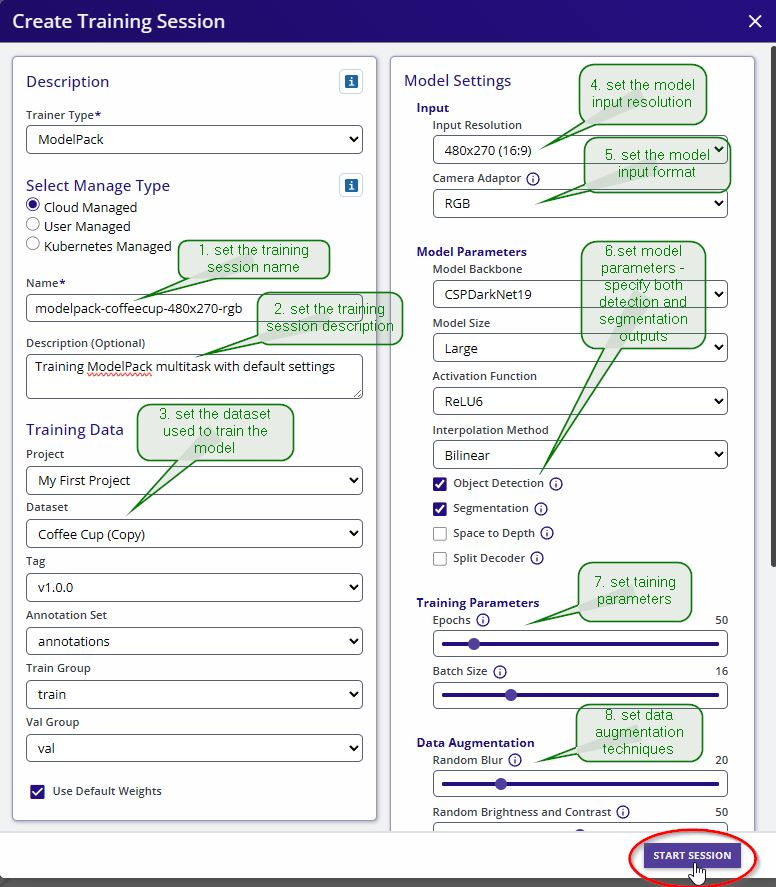
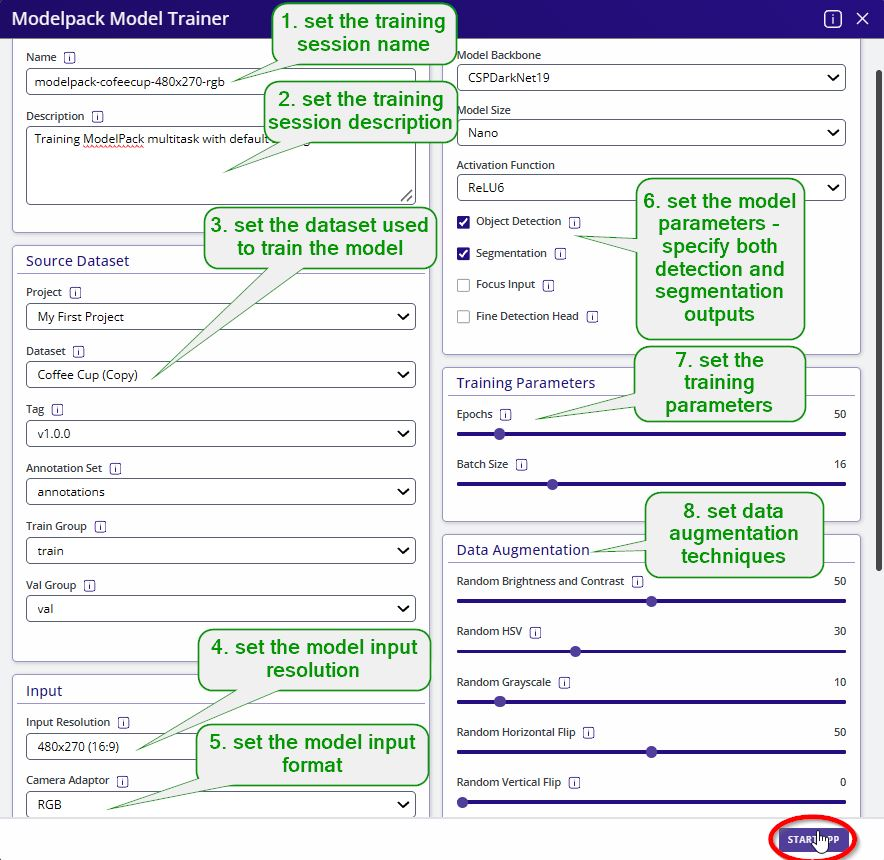
DE-2951: refresh training UI docs and update session launch assets
- update discrete model training and validation guidance for the current trainer app flow
- refresh vision and fusion training docs to match the latest Studio session UI
- revise ModelPack and Ultralytics parameter docs and examples
- replace outdated training session screenshots with new session-button images
- update validation docs to reflect the current navigation/content layout
- remove obsolete insufficient-capacity asset no longer used by the docs

diff --git a/docs/models/training/vision.md b/docs/models/training/vision.md
@@ -51,16 +51,15 @@ The launch forms of both trainers start with the same three groups.
 |-------|-------------|
 | **Training Session** | The **Name** and optional **Description** of the training session.  The name is also used to name the artifacts. |
 | **Source Dataset** | The dataset the session trains and validates on, with its annotation set and tag. |
-| **Destination Experiment** | The experiment the training session is created in.  Artifacts and charts are published there when the session finishes. |
 
 The groups that follow depend on the trainer.
 
 | Trainer | Groups | Parameter Reference |
 |---------|--------|---------------------|
 | **ModelPack** | Input (Input Resolution, Camera Adaptor, Input Tiling (SAHI), Letterbox Resize), Model Parameters, Training Parameters, Data Augmentation, Export Parameters | [ModelPack Training Parameters](../modelpack/index.md#training-parameters) |
-| **Ultralytics** | Input (Input Resolution), Task Selection, Training (Weights, Enable Training and its training settings), Export Parameters | [Ultralytics Training Parameters](../ultralytics/index.md#training-parameters) |
+| **Ultralytics** | Input (Input Resolution), Task Selection, Export Parameters, Training (Weights, Enable Training and its training settings) | [Ultralytics Training Parameters](../ultralytics/index.md#training-parameters) |
 
-Click "Start Session" to start the training session.
+Click "Start App" to start the training session.
 
 ### Weights and Enable Training
 
@@ -80,12 +79,6 @@ A session with **Enable Training** off validates the exported model and reports 
 
 !!! warning "COCO pretrained weights and dataset compatibility"
     **Pretrained (COCO)** weights without training detect the 80 COCO classes.  When your dataset classes differ from the COCO classes, the session skips validation, and the model's class outputs do not correspond to your labels.  Turn on **Enable Training** to fine-tune the weights on your dataset.
-
-!!! failure "InsufficientInstanceCapacity"
-
-    {{ img("/studio/assets/models/insufficient-capacity-error.jpg", "InsufficientInstanceCapacity Error") }}
-
-    If you see this error after starting your training session, retry creating the session. This can happen when AWS reports that no EC2 instances are currently available to launch; the current workaround is to retry.
 
 ## Session Progress
 

diff --git a/docs/discrete/models/train_ultralytics.md b/docs/discrete/models/train_ultralytics.md
@@ -12,21 +12,15 @@
 
 4. Create a new training session by clicking the "Actions" dropdown menu on the top right of the page and then click the "+ New" button
 
-    {{ figure("/models/assets/training/new-session-button.jpg", "New Session Button") }}
+    {{ figure("/models/assets/training/new-ultralytics-session-button.jpg", "New Session Button") }}
 
-5. Start a YOLOv8n detection model by following these settings. Once the settings are set, click on "Start Session" at the bottom of the window
+5. Start a YOLOv8n detection model by following these settings. Once the settings are set, click on "Start App" at the bottom of the window
 
     {{ figure("/profiler/assets/studio-yolo-model-configurations.jpg", "Ultralytics Training Settings") }}
 
     This will start a training session in progress.
 
     {{ figure("/models/assets/training/training-session-progress-ultralytics.jpg", "Ultralytics Training Progress") }}
-
-    !!! failure "InsufficientInstanceCapacity"
-
-        {{ img("/studio/assets/models/insufficient-capacity-error.jpg", "InsufficientInstanceCapacity Error") }}
-
-        If you see this error after starting your training session, retry creating the session. This can happen when AWS reports that no EC2 instances are currently available to launch; the current workaround is to retry.
 
     !!! note "No Training Charts"
 

diff --git a/docs/discrete/models/train_vision.md b/docs/discrete/models/train_vision.md
@@ -20,17 +20,11 @@ Navigate to the "Training Sessions".
 
 Create a new training session by clicking the "Actions" dropdown menu on the top right of the page and then click the "+ New" button.
 
-{{ figure("/models/assets/training/new-session-button.jpg", "New Session Button") }}
+{{ figure("/models/assets/training/new-mpk-session-button.jpg", "New Session Button") }}
 
-Follow the settings indicated and keep the rest of the settings default.  Click "Start Session" to start the training session.
+Follow the settings indicated and keep the rest of the settings default.  Click "Start App" to start the training session.
 
 {{ figure("/models/assets/training/vision-train-settings.jpg", "Start Training Session") }}
-
-!!! failure "InsufficientInstanceCapacity"
-
-    {{ img("/studio/assets/models/insufficient-capacity-error.jpg", "InsufficientInstanceCapacity Error") }}
-
-    If you see this error after starting your training session, retry creating the session. This can happen when AWS reports that no EC2 instances are currently available to launch; the current workaround is to retry.
 
 The session progress will be shown like the following below.
 

diff --git a/docs/models/modelpack/index.md b/docs/models/modelpack/index.md
@@ -106,7 +106,7 @@ ModelPack can be trained in {{ studio_link("EdgeFirst Studio") }} by following f
     7. **Export Parameters**: The session publishes FP32 and FP16 ONNX models, a TensorFlow SavedModel and an INT8 calibration snapshot.  The [converter apps](../conversion/index.md) use them to produce INT8 quantized models for each target NPU
         1. **Calibration Samples**: The number of images in the INT8 calibration snapshot, 500 by default (100 to 2000).  Very low counts can reduce quantized accuracy.  Snapshots are reused across sessions with matching settings
         2. **ONNX Opset Version**: The ONNX opset version of the exported model, 11, 12 or 13 (default).  Keep the default unless a downstream tool requires an older version
-    8. **Start Session**: This button starts the training session
+    8. **Start App**: This button starts the training session
 
 ## Camera Adaptor and Letterbox
 

diff --git a/docs/models/validation/fusion/managed.md b/docs/models/validation/fusion/managed.md
@@ -14,12 +14,6 @@ The only augmentation available for this type of validation is `blur`.  See [Vis
 
 Once the configurations have been made, go ahead and click on the "Start Session" button on the bottom right of the window.  This will start the validation session which will validate the model using the validation partition of the dataset.
 
-!!! failure "InsufficientInstanceCapacity"
-
-    {{ img("/studio/assets/models/insufficient-capacity-error.jpg", "InsufficientInstanceCapacity Error") }}
-
-    If you see this error after starting your validation session, retry creating the session. This can happen when AWS reports that no EC2 instances are currently available to launch; the current workaround is to retry.
-
 ## Session Progress
 
 Once the validation session has started, the progress with the stages will be shown on the left and additional information and status is shown on the right.

diff --git a/docs/models/validation/vision/managed.md b/docs/models/validation/vision/managed.md
@@ -14,12 +14,6 @@ You will be greeted with a validation session dialog.  In this dialog, specify t
 
 Once the settings have been specified, go ahead and click on the "Start Session" button on the bottom right of the dialog.  This will start the validation session which will validate the model using the validation partition of the dataset.
 
-!!! failure "InsufficientInstanceCapacity"
-
-    {{ img("/studio/assets/models/insufficient-capacity-error.jpg", "InsufficientInstanceCapacity Error") }}
-
-    If you see this error after starting your validation session, retry creating the session. This can happen when AWS reports that no EC2 instances are currently available to launch; the current workaround is to retry.
-
 ## Session Progress
 
 Once the validation session has started, the progress with the stages will be shown on the left and additional information and status is shown on the right.

diff --git a/docs/models/training/fusion.md b/docs/models/training/fusion.md
@@ -46,12 +46,6 @@ For more information on available "Data Augmentations" please see [Vision Augmen
 
 Once the configurations have been made, go ahead and click on the "Start Session" button on the bottom right of the window.  This will start the training session which will train the model for the number of epochs specified.
 
-!!! failure "InsufficientInstanceCapacity"
-
-    {{ img("/studio/assets/models/insufficient-capacity-error.jpg", "InsufficientInstanceCapacity Error") }}
-
-    If you see this error after starting your training session, retry creating the session. This can happen when AWS reports that no EC2 instances are currently available to launch; the current workaround is to retry.
-
 ## Session Progress
 
 Once the training session has started, the progress with the stages will be shown on the left and additional information and status is shown on the right.

diff --git a/docs/discrete/models/validate_fusion.md b/docs/discrete/models/validate_fusion.md
@@ -12,12 +12,6 @@ On the top right corner of the page, click on the "validate" button as indicated
 
 Specify the name of the validation session and the model and the dataset for validation.  The rest of the settings were kept as defaults.  Click "Start Session" at the bottom to start the validation session.
 
-!!! failure "InsufficientInstanceCapacity"
-
-    {{ img("/studio/assets/models/insufficient-capacity-error.jpg", "InsufficientInstanceCapacity Error") }}
-
-    If you see this error after starting your validation session, retry creating the session. This can happen when AWS reports that no EC2 instances are currently available to launch; the current workaround is to retry.
-
 {{ figure("/models/assets/validation/fusion-session-fields.jpg", "Start Validation Session") }}
 
 The validation session progress will appear in the "Validation" page as shown below.

diff --git a/docs/discrete/models/validate_vision.md b/docs/discrete/models/validate_vision.md
@@ -28,12 +28,6 @@ For this example, all remaining settings were left at their default values. When
 
 {{ figure("/models/assets/validation/vision-validate-settings.jpg", "Start Validation Session") }}
 
-!!! failure "InsufficientInstanceCapacity"
-
-    {{ img("/studio/assets/models/insufficient-capacity-error.jpg", "InsufficientInstanceCapacity Error") }}
-
-    If you see this error after starting your validation session, retry creating the session. This can happen when AWS reports that no EC2 instances are currently available to launch; the current workaround is to retry.
-
 Go to the created validation session by first going back to the "Model Experiments" page.
 
 {{ figure("/models/assets/training/go-back-to-model-experiments.jpg", "Go to Model Experiments") }}

diff --git a/docs/discrete/models/train_fusion.md b/docs/discrete/models/train_fusion.md
@@ -26,12 +26,6 @@ Follow the settings indicated and keep the rest of the settings by their default
 
 {{ figure("/models/assets/training/fusion-train-settings.jpg", "Start Training Session") }}
 
-!!! failure "InsufficientInstanceCapacity"
-
-    {{ img("/studio/assets/models/insufficient-capacity-error.jpg", "InsufficientInstanceCapacity Error") }}
-
-    If you see this error after starting your training session, retry creating the session. This can happen when AWS reports that no EC2 instances are currently available to launch; the current workaround is to retry.
-
 The session progress will be shown like the following below.
 
 {{ figure("/models/assets/training/fusion-session-progress.jpg", "Training Session Progress") }}

diff --git a/docs/models/ultralytics/index.md b/docs/models/ultralytics/index.md
@@ -94,7 +94,7 @@ YOLOv5, YOLOv8, YOLO11, and YOLO26 can be trained in {{ studio_link("EdgeFirst S
             !!! note "Charts Without Training"
                 A session with **Enable Training** off runs no epochs, so its loss and learning-rate charts stay empty.  Its mAP, precision and recall charts hold a single point, the validation of the exported model.  See [Weights Source](#weights-source).
 
-    7. **Start Session**: This button starts the training session
+    7. **Start App**: This button starts the training session
 
 !!! note "Important"
     Datasets and default weights are handled internally by EdgeFirst Studio.  There's no need to migrate or store data locally.
